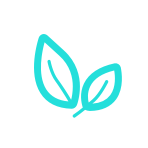
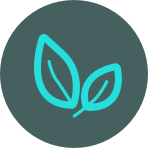
feat:页面结构调整

diff --git a/pages/case.vue b/pages/case.vue
@@ -38,11 +38,11 @@
                         <div class="case-title">Southern California Equipment 1</div>
                         <div class="case-desc-container">
                             <div class="case-desc">
-                                <div class="case-desc-label">PV capacity</div>
+                                <div class="case-desc-label">PV Capacity</div>
                                 <div class="case-desc-info">6.8 kWp </div>
                             </div>
                             <div class="case-desc">
-                                <div class="case-desc-label">Installation time</div>
+                                <div class="case-desc-label">Installation Date</div>
                                 <div class="case-desc-info">12/06/2024</div>
                             </div>
                             <div class="case-desc">
@@ -50,11 +50,11 @@
                                 <div class="case-desc-info">8.2 kWh</div>
                             </div>
                             <div class="case-desc">
-                                <div class="case-desc-label">AI benefits</div>
+                                <div class="case-desc-label">AI Benefits</div>
                                 <div class="case-desc-info">$ 985.6</div>
                             </div>
                             <div class="case-desc">
-                                <div class="case-desc-label">Increased revenue</div>
+                                <div class="case-desc-label">Increased Revenue</div>
                                 <div class="case-desc-info">57.8%</div>
                             </div>
                         </div>
@@ -73,11 +73,11 @@
                         <div class="case-title">Southern California Equipment 2</div>
                         <div class="case-desc-container">
                             <div class="case-desc">
-                                <div class="case-desc-label">PV capacity</div>
+                                <div class="case-desc-label">PV Capacity</div>
                                 <div class="case-desc-info">5.88 kWp </div>
                             </div>
                             <div class="case-desc">
-                                <div class="case-desc-label">Installation time</div>
+                                <div class="case-desc-label">Installation Date</div>
                                 <div class="case-desc-info">07/07/2025</div>
                             </div>
                             <div class="case-desc">
@@ -85,11 +85,11 @@
                                 <div class="case-desc-info">16.4 kWh</div>
                             </div>
                             <div class="case-desc">
-                                <div class="case-desc-label">AI benefits</div>
+                                <div class="case-desc-label">AI Benefits</div>
                                 <div class="case-desc-info">$ 509.82</div>
                             </div>
                             <div class="case-desc">
-                                <div class="case-desc-label">Increased revenue</div>
+                                <div class="case-desc-label">Increased Revenue</div>
                                 <div class="case-desc-info">43.5%</div>
                             </div>
                         </div>
@@ -108,11 +108,11 @@
                         <div class="case-title">Portland</div>
                         <div class="case-desc-container">
                             <div class="case-desc">
-                                <div class="case-desc-label">PV capacity</div>
+                                <div class="case-desc-label">PV Capacity</div>
                                 <div class="case-desc-info">7.38 kWp </div>
                             </div>
                             <div class="case-desc">
-                                <div class="case-desc-label">Installation time</div>
+                                <div class="case-desc-label">Installation Date</div>
                                 <div class="case-desc-info">07/22/2024</div>
                             </div>
                             <div class="case-desc">
@@ -120,11 +120,11 @@
                                 <div class="case-desc-info">8.2 kWh</div>
                             </div>
                             <div class="case-desc">
-                                <div class="case-desc-label">AI benefits</div>
+                                <div class="case-desc-label">AI Benefits</div>
                                 <div class="case-desc-info">$ 683.19</div>
                             </div>
                             <div class="case-desc">
-                                <div class="case-desc-label">Increased revenue</div>
+                                <div class="case-desc-label">Increased Revenue</div>
                                 <div class="case-desc-info">97.0%</div>
                             </div>
                         </div>

diff --git a/pages/index.vue b/pages/index.vue
@@ -222,6 +222,7 @@ import tabImgS4 from '~/assets/image/home-tab-minitor.webp'
 import tabImgS5 from '~/assets/image/home-tab-broad.webp'
 import tabImgS6 from '~/assets/image/home-tab-seamless.webp'
 import tabImgS7 from '~/assets/image/home-tab-clear.webp'
+
 import tabImgUS1 from '~/assets/image/home-tab-0.webp'
 import tabImgUS2 from '~/assets/image/home-tab-0.webp'
 import tabImgUS3 from '~/assets/image/home-tab-0.webp'
@@ -242,7 +243,7 @@ const sec5Ref = ref<HTMLElement | null>(null)
 const sec6Ref = ref<HTMLElement | null>(null)
 const sectionRefs = [sec0Ref, sec1Ref, sec2Ref, sec3Ref, sec4Ref, sec5Ref, sec6Ref]
 const tabList = ref([
-  { label: '0 Down 0 Monthly 0 Emission', urlS: tabImgS1, urlnS: tabImgUS1 },
+  { label: '0 Down 0 Monthly 0 Emission.', urlS: tabImgS1, urlnS: tabImgUS1 },
   { label: 'Smarter AI, Higher Revenue.', urlS: tabImgS2, urlnS: tabImgUS2 },
   { label: 'Predictive Intelligence.', urlS: tabImgS3, urlnS: tabImgUS3 },
   { label: 'Total Visibility, Real-Time Control.', urlS: tabImgS4, urlnS: tabImgUS4 },
@@ -614,7 +615,8 @@ definePageMeta({ name: 'Home', title: 'Home' })
       /* 单个 item，只负责样式，不再加动画 */
       .home-select-tab-item {
         width: fluid(16px, 480, 480);
-        padding: fluid(16px, 33, 33) fluid(16px, 26, 26) fluid(16px, 33, 33) fluid(16px, 22, 22);
+        height: fluid(16px, 142, 142);
+        padding: 0 fluid(16px, 26, 26) 0 fluid(16px, 22, 22);
         display: flex;
         align-items: center;
         background: #272F2F;

diff --git a/layouts/default.vue b/layouts/default.vue
@@ -115,7 +115,7 @@ const list = ref([
         path: "/case"
     },
     {
-        name: "About-us",
+        name: "About Us",
         path: "/about"
     },
 ])
